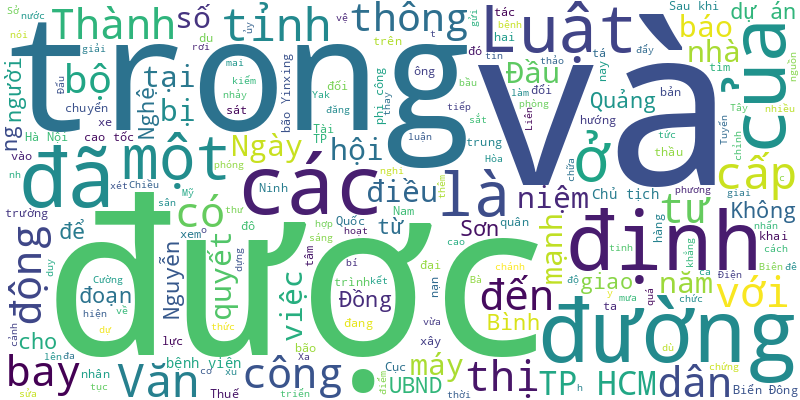
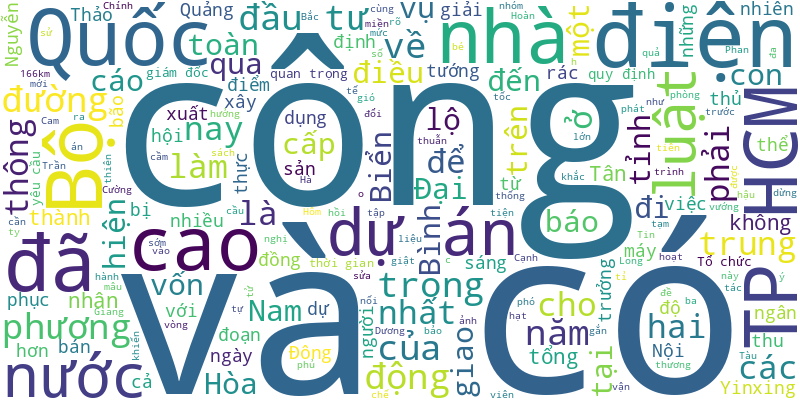
🍀 = 80%

diff --git a/README.md b/README.md
@@ -1,6 +1,11 @@
 # Tuoi Tre RSS 
 
 ## Giáo dục 
+- TS Ray Nguyễn - giám đốc Mảng thiết kế mạch điện tương tự và hỗn hợp ở Marvell Technology, công ty tại Thung lũng Silicon (Mỹ) - vừa có buổi nói chuyện tại Trường ĐH Fulbright Việt Nam.
+- Trường Đại học Kinh Bắc khẳng định 160 bằng tốt nghiệp do ông Phạm Ngọc Trúc ký, cấp phát cho sinh viên đợt 2 năm 2024 là không đúng quy định pháp luật.
+- Sinh viên Đại học Quốc gia TP.HCM có cơ hội giao lưu và học hỏi kinh nghiệm từ những người đã và đang thành công trên nhiều lĩnh vực.
+- Từ năm 2025, học sinh có giấy chứng nhận nghề sẽ không được cộng 1 - 2 điểm khuyến khích khi xét tốt nghiệp THPT như những năm trước đây.
+- Hội đồng kỷ luật của huyện Minh Hóa đã đưa ra hình thức kỷ luật khiển trách với bà Đinh Thị Bùi Chung, hiệu trưởng Trường mầm non số 1 thị trấn Quy Đạt vì nhiều sai phạm về tài chính cũng như hành vi giật micro, chỉ mặt hội trưởng phụ huynh.
 - Quy định mới trong dự thảo thông tư tuyển sinh đại học 2025 sẽ giúp các trường đỡ sợ tuyển vượt chỉ tiêu.
 - Sinh viên của Trường đại học Mở TP.HCM đã đến UBND phường Cô Giang (quận 1, TP.HCM) học tập thực tế về quản lý công.
 - Trường phổ thông Thực hành Sư phạm thuộc Đại học Đồng Nai đang thiếu tiền trả lương cho giáo viên. Hoạt động giảng dạy của trường cầm chừng vì thiếu kinh phí.
@@ -26,43 +31,38 @@
 - Bảo đảm ngân sách nhà nước chi cho giáo dục, đào tạo tối thiểu 20% tổng chi ngân sách, từng bước đưa tiếng Anh trở thành ngôn ngữ thứ hai và đào tạo ngoại ngữ khác theo nhu cầu.
 - Ban tổ chức ngày hội STEM quận Tân Phú, TP.HCM đã bất ngờ với những sản phẩm sáng tạo từ AI của học sinh trong nội dung 'sáng tác truyện tranh bằng AI'.
 - Chương trình đào tạo về 'Cấy ghép Implant Nha khoa All-on-X & GBR' do Công ty Dentium kết hợp cùng Đại học (ĐH) Harvard và ĐH Duy Tân đã được tổ chức từ ngày 19 - 20-10.
-- Vấn nạn 'tiến sĩ dỏm' là câu chuyện nhức nhối, đang thu hút sự quan tâm mạnh mẽ của dư luận.
-- Trong năm 2025, kỳ thi đánh giá tư duy của Đại học Bách khoa Hà Nội (TSA) dự kiến tổ chức trong 3 đợt thi vào các ngày cuối tuần.
-- Nhiều người có tên trong danh sách giảng viên cơ hữu toàn thời gian của các trường đại học tại Việt Nam nhưng đang sinh sống và làm việc ở nước ngoài nhiều năm qua.
-- Giám đốc dự án khu vực châu Á - Thái Bình Dương - Trung Đông Google for Education khẳng định như vậy tại buổi làm việc với Phó chủ tịch UBND TP.HCM.
-- HĐND tỉnh Bắc Ninh dự kiến kinh phí hơn 215 tỉ đồng để hỗ trợ hợp đồng lao động giáo viên, nhân viên nấu ăn… năm học 2024 - 2025.
 ![Edu](Edu.png)
 ## Thời Sự 
-- Sau khi 2 phi công nhảy dù, chiếc máy bay Yak-130 tiếp tục bay và rơi ở vị trí chưa xác định, nhiều hướng tìm kiếm đang được triển khai.
-- Lâu nay chúng ta cứ nói giải quyết nạn quá tải ở trung tâm bằng cách mở đô thị vệ tinh, giãn dân... Nay có khái niệm khác là đô thị nén, tức tập trung vào với mật độ dân số cực cao. Điều này góp phần làm thay đổi xu hướng của thị trường bất động sản.
-- Ngày 6-11, Quốc hội thảo luận ở hội trường về dự án Luật sửa đổi, bổ sung một số điều của Luật Quy hoạch, Luật Đầu tư, Luật Đầu tư theo phương thức đối tác công tư và Luật Đấu thầu.
-- Giám đốc Sở Tài nguyên và Môi trường TP.HCM vừa chấn chỉnh việc kiểm tra hiện trạng nhà ở, công trình khi cấp giấy chứng nhận đối với hệ thống Văn phòng đăng ký đất đai tại TP.HCM.
-- Rạng sáng 7-11, bão Yinxing tiếp tục mạnh thêm một cấp lên cấp 15 (167 - 183km/h) - tiệm cận siêu bão. Dự báo sáng mai bão vào Biển Đông và trở thành cơn bão số 7 trong năm 2024.
-- Một số tin tức đáng chú ý: Quốc hội thảo luận sửa Luật Điện lực, xem xét giá điện; Chứng khoán DNSE bị phạt; Hà Nội có lực lượng cảnh sát chữa cháy và cứu nạn đặc biệt tinh nhuệ...
-- Hôm nay 7-11, thời tiết mưa to chỉ còn duy trì chủ yếu ở Quảng Nam đến Khánh Hòa và có xu hướng giảm dần. Bão Yinxing đang áp sát Biển Đông.
-- Dự án sân bay Long Thành giai đoạn 1 được đề xuất xây thêm một đường băng trong giai đoạn 1 và điều chỉnh thời gian hoàn thành, khai thác vào cuối năm 2026.
-- Xã Phước Đồng (TP Nha Trang) vừa báo cáo để xem xét lại việc Sở Giao thông vận tải tỉnh Khánh Hòa đề nghị giao UBND xã “chủ trì xử lý” tảng đá có nguy cơ sạt lở, lăn xuống đường đi sân bay Cam Ranh.
-- Cường độ bão Yinxing mạnh lên cấp 14 (150-166km/h), giật cấp 17. Các tỉnh từ Quảng Ninh đến Bình Thuận thông báo ngay cho các tàu thuyền hoạt động trên Biển Đông.
-- Lúc 22h30, nguồn tin từ Trung đoàn Không quân 940 cho biết đã tìm thấy phi công thứ 2 là đại tá Nguyễn Văn Sơn. Hiện đại tá Sơn và thượng tá Quân đã được đưa xuống núi, chuyển đến bệnh viện.
-- Bà Phạm Thị Bích Thủy, chánh án TAND tỉnh Bình Phước, được điều động làm bí thư Thành ủy Đồng Xoài.
-- Chủ tịch nước Lương Cường thăm chính thức Chile và Peru, dự Tuần lễ cấp cao APEC từ ngày 9 đến 16-11. Đây là chuyến công du nước ngoài đầu tiên của ông sau khi nhậm chức.
-- Chiều 6-11, lãnh đạo UBND tỉnh Đồng Nai đã công bố quyết định phê chuẩn kết quả bầu chủ tịch UBND TP Biên Hòa.
-- Bộ trưởng Nguyễn Chí Dũng nhấn mạnh việc cần đổi mới tư duy xây dựng pháp luật, trong đó giải phóng các nguồn lực, khơi thông các điểm nghẽn.
-- Ngày 6-11, UBND TP.HCM có văn bản gửi các nhà đầu tư về sự quan tâm đối với dự án đường cao tốc TP.HCM - Mộc Bài.
-- Đại sứ Mỹ Marc Knapper dành phút mặc niệm, nghiêng mình trước đài tưởng niệm các y bác sĩ Bệnh viện Bạch Mai đã hy sinh trong đợt ném bom của Không quân Mỹ năm 1972.
-- Ngày 6-11, bà Nguyễn Thị Tuyến, phó bí thư thường trực Thành ủy Hà Nội, đã được bầu giữ chức chủ tịch Hội Liên hiệp phụ nữ Việt Nam.
-- Chủ tịch Quảng Tây khẳng định quyết tâm thúc đẩy hợp tác giữa hai bên. Trong đó, đẩy mạnh kết nối giao thông đường bộ, đường sắt, nhất là các tuyến đường sắt từ Quảng Tây với Đồng Đăng - Hà Nội, Móng Cái - Hải Phòng.
-- Đến chiều tối  6-11, hai phi công nhảy dù thoát hiểm trong vụ rơi máy bay huấn luyện Yak-130 tại Bình Định đã liên lạc được với đội tìm kiếm.
-- Sau khi được một nhà thầu 'mượn' chở vật liệu xây dựng cao tốc Bắc - Nam, đoạn tỉnh lộ ở Nghệ An chi chít hàng trăm ổ gà, ổ voi khiến người dân kêu trời.
-- Nhiều hoạt động, chương trình nghệ thuật được Bộ Văn hóa, Thể thao và Du lịch cùng hai tỉnh Nghệ An, Hà Tĩnh kỷ niệm 10 năm dân ca ví, giặm Nghệ Tĩnh được UNESCO ghi danh.
-- Ông Định khai do muốn nâng rơ moóc để những người trú mưa khỏi ướt nên ông khởi động máy cày, không may khiến 2 người tử vong.
-- Tổng cục Thuế vừa có văn bản yêu cầu Cục Thuế Đắk Lắk xem xét hành vi doanh nghiệp trốn thuế trong chuyển nhượng vốn.
-- Cục Đường bộ khẳng định việc gắn dòng chữ 'đoạn đường Sơn Hải bảo hành 10 năm' trên biển báo hiệu đường bộ của cao tốc Nghi Sơn - Diễn Châu là không phù hợp.
-- Tài là nhân viên ngân hàng đã dùng hình ảnh 2 sổ đỏ của người thân đang thế chấp tại ngân hàng để gửi cho nạn nhân, qua đó nói dối vay gần 4 tỉ đồng để đáo hạn và chiếm đoạt.
-- Cơ sở khám bệnh, chữa bệnh được tự quyết định việc mua thuốc, thiết bị y tế... cho các nhà thuốc trong bệnh viện thay vì đấu thầu.
-- Dự án cầu cảng thương mại dịch vụ Hàm Ninh (xã Hàm Ninh, TP Phú Quốc, Kiên Giang) được kỳ vọng tạo điểm nhấn phát triển du lịch địa phương.
-- Tài xế xe ben chạy xe qua dải phân cách cố định để chuyển làn trên đường Nguyễn Văn Linh (huyện Bình Chánh, TP.HCM) bị cảnh sát giao thông lập biên bản.
-- Trong quá trình tác nghiệp tại Bệnh viện Đa khoa tỉnh Đắk Lắk (cũ), một phóng viên của báo Công An Nhân Dân đã bị bảo vệ đánh và thu máy ảnh.
+- Dự Luật Quảng cáo sửa đổi đề xuất bổ sung quy định nhằm "siết" người nổi tiếng, có ảnh hưởng quảng cáo sản phẩm tràn lan trên mạng.
+- Tin tức đáng chú ý: TP.HCM phát hiện hơn 17.700 phương tiện vi phạm an toàn kỹ thuật; Hôm nay Quốc hội nghe trình nhiều nội dung quan trọng, thảo luận dự Luật Dữ liệu...
+- Hôm nay 8-11, thời tiết mưa to ở miền Trung đã giảm, miền Bắc trời lạnh. Nam Bộ ngày nắng, Biển Đông đón bão Yinxing.
+- Sáng sớm nay (8-11), bão Yinxing có gió mạnh cấp 14 (150-166km/h), giật cấp 17, đã đi vào khu vực Bắc Biển Đông, trở thành cơn bão số 7 trong năm 2024.
+- Chuyến công tác nước ngoài đầu tiên của Chủ tịch nước Lương Cường có ý nghĩa và tầm quan trọng đặc biệt, cả về song phương và đa phương.
+- Đại tá Nguyễn Quốc Vương - trưởng phòng thuộc Cục Tổ chức cán bộ (Bộ Công an) - được điều động đến nhận công tác và giữ chức vụ phó giám đốc Công an tỉnh Phú Thọ.
+- Phó thủ tướng Nguyễn Hòa Bình yêu cầu tập trung khắc phục hậu quả, khẩn trương điều tra, làm rõ trách nhiệm trong vụ cháy ở Vũng Tàu khiến hai cháu bé tử vong.
+- Dự báo sáng 8-11, bão Yinxing đi vào Biển Đông với cường độ cấp 14 (150-166km/h), giật cấp 17. Thủ tướng yêu cầu bảo đảm an toàn cho phương tiện, tàu thuyền còn hoạt động trên biển.
+- Thấy nhóm bạn của vợ cũ đang ngồi uống rượu, do mâu thuẫn từ trước, Hội đã bắn súng tự chế gây thương tích cho một người trong nhóm.
+- Bộ Giao thông vận tải thống nhất với tỉnh Quảng Trị tăng tỉ lệ vốn nhà nước tại dự án PPP cao tốc Cam Lộ - Lao Bảo, sử dụng ngân sách đầu tư mới 8km quốc lộ 15D, xây mới cầu Đakrông…
+- Ngày 7-11, Công ty TNHH MTV Thảo cầm viên Sài Gòn (Thảo cầm viên) đã phối hợp cùng Vườn quốc gia Cát Tiên thả hai con rái cá vuốt bé và hai con mèo rừng về tự nhiên.
+- Là dự án có tổng mức đầu tư lớn nhất từ trước tới nay, Ủy ban Kinh tế đề nghị Chính phủ báo cáo rõ hơn phương án bố trí vốn, khả năng cân đối vốn ngân sách nhà nước sử dụng cho dự án đường sắt tốc độ cao Bắc - Nam.
+- Bộ trưởng Nguyễn Hồng Diên nói thiếu điện do có những dự án giao cả chục năm không làm, lần này không làm phải bị thu hồi.
+- Gói thầu nối hầm chui Trần Quốc Hoàn - Phan Thúc Duyện là đoạn nối đường Thăng Long - 18E - Cộng Hòa (cửa ngõ Tân Sơn Nhất, TP.HCM) đã thông xe, giúp giải tỏa áp lực cho vòng xoay Lăng Cha Cả.
+- Hà Nội sẽ tạm dừng vận hành metro Nhổn - ga Hà Nội đoạn trên cao trong sáng 9-11, để tổ chức lễ gắn biển khánh thành công trình chào mừng 70 năm Giải phóng thủ đô.
+- Chình phủ cần nghiên cứu có thể phục hồi nhà máy điện hạt nhân Ninh Thuận hoặc khởi động dự án điện hạt nhân khác trong thời gian sớm nhất.
+- Một số dự án giao thông ở TP.HCM như mở rộng đường Tân Kỳ Tân Quý, Dương Quảng Hàm, xây cầu Bà Hòm bị vướng lưới điện (dây và cột điện), làm ảnh hưởng đến tiến độ và nguy hiểm đến người đi đường.
+- Cạnh quốc lộ 61 (đoạn qua xã Vĩnh Hòa Hưng Nam, huyện Gò Quao, Kiên Giang) thời gian qua có bãi rác lộ thiên nhếch nhác bầy hầy. Rác và nước rác thải rỉ chảy ra đồng, ra đường hôi thối khiến người đi đường ngao ngán.
+- Không thể để ngành điện báo lỗ hằng năm do phải bù chênh lệch giá điện, mua cao phải bán cao, không thể mua cao lại bán thấp.
+- Chiều 7-11, thông tin thêm về vụ việc máy bay Yak-130 gặp nạn tại Bình Định, Đại tướng Phan Văn Giang, bộ trưởng Bộ Quốc phòng, khẳng định hành động xử lý của hai phi công vô cùng anh dũng và việc trở về an toàn, đó là điều trân trọng nhất.
+- TP.HCM mong muốn có nhiều hoạt động giao lưu giữa tuổi trẻ TP.HCM và tuổi trẻ ở các địa phương Liên bang Nga, làm sâu sắc hơn mối quan hệ truyền thống gắn bó lâu đời giữa nhân dân hai nước.
+- Các nhà lãnh đạo CLMV khẳng định khát vọng chung về xây dựng một tiểu vùng hòa bình, thịnh vượng và hiện thực hóa mục tiêu trở thành các nước có thu nhập trung bình cao vào năm 2030.
+- Nghị quyết 98 có quy định để TP.HCM thu hút nhà đầu tư chiến lược, tuy nhiên nhà đầu tư phải cam kết giải ngân toàn bộ tổng vốn đầu tư trong vòng 5 năm. Việc này rất khó với các dự án lớn như cảng trung chuyển quốc tế Cần Giờ.
+- Tổng giám đốc công ty sản xuất thương hiệu dầu gió 'con ó' ở Singapore đã đến trao thư cảm ơn giám đốc Công an tỉnh Long An phá vụ án sản xuất 30.000 chai dầu 'con ó' giả bán qua Shopee.
+- Tỉnh Thừa Thiên Huế vừa được Tổ chức Công nghiệp điện toán châu Á - châu Đại Dương (ASOCIO) vinh danh là Thành phố thông minh - ASOCIO Smart City.
+- Tổng Bí thư Tô Lâm yêu cầu tháo gỡ điểm nghẽn, nút thắt có nguyên nhân từ quy định của pháp luật; thực hiện cơ chế "sửa một luật, điều chỉnh nhiều luật" để khắc phục ngay tình trạng mâu thuẫn, chồng chéo của các luật.
+- Dù khối lượng thi công dự án ngăn triều 10.000 tỉ đồng tại TP.HCM (nhà đầu tư là Tập đoàn Trung Nam) đã hoàn thành 90%, tuy nhiên vẫn bị tạm dừng do những vướng mắc về tài chính và pháp lý.
+- Đại biểu Quốc hội Trần Hữu Hậu cho rằng muốn có thị trường điện cạnh tranh thực sự, góp phần quan trọng gỡ những rối rắm hiện nay của ngành điện, phải thay đổi triệt để.
+- Sau thời gian triển khai thí điểm tại ba bệnh viện mang lại hiệu quả tốt, TP.HCM đã phát động đợt cao điểm 55 ngày đêm triển khai sổ sức khỏe điện tử trên ứng dụng VNeID.
+- Nhà máy alumin Tân Rai (Lâm Đồng) đã chạy vượt công suất thiết kế, liệu bùn đỏ có vượt mức đã báo cáo Bộ Tài nguyên và Môi trường?
 ![New](News.png)
 ## Nhịp sống số 
 - Những lỗ hổng này có thể ảnh hưởng từ smartphone, máy tính bảng cho đến phương tiện di chuyển có kết nối công nghệ và hệ thống viễn thông.
